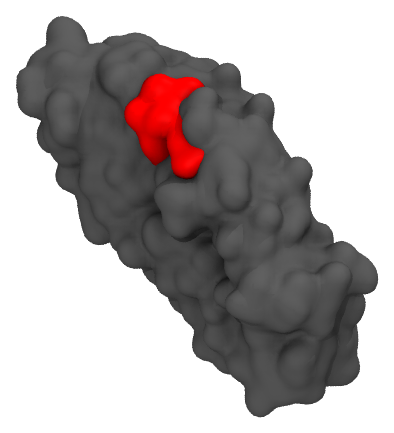
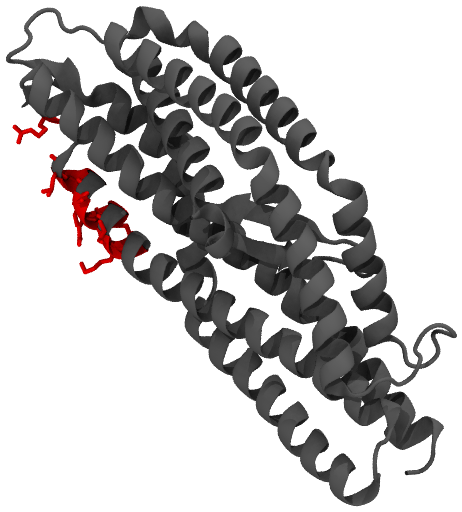
docs(methods): make the growPatch growth figure match candidate 9
The three growth-step panels (seed -> neighbours -> ~16-residue footprint) highlighted
a patch at a different location than the finished-candidate ribbon figure, so the two
read as different selections. Re-render them with the same ribbon pipeline and camera,
growing INTO candidate 9's actual growth footprint (resis_rank from growpatch_8pww.js:
seed 392 nearest the centroid, greedy nearest-neighbour growth; prefixes 1/8/16). The
footprint then gap-fills to A:312-323;A:387-412 -- the exact candidate shown below it.

- render_webtool_figs.sh: GROW1/2/3 added, committed so the panels are reproducible
  (they previously had no render script)
- methods.html: alt text + caption updated (ribbon, not surface); note the footprint is
  candidate 9's; cache versions bumped (grow_g* v3, growpatch_candidate v3)

Claude-Session: https://claude.ai/code/session_01UnbU2XAnf3AQvdSJq3XEXq

diff --git a/docs/methods.html b/docs/methods.html
@@ -152,19 +152,20 @@ figure.dgm figcaption{font-size:11.5px;color:#6a7686;margin:7px auto 0;max-width
     </ul>
     <figure class="dgm">
     <div class="frow">
-      <figure><img src="img/fig/grow_g1.png?v=2" loading="lazy" alt="One exposed starting residue in red on the grey molecular surface of 8PWW chain A."><figcaption>1 &middot; pick an exposed seed residue</figcaption></figure>
+      <figure><img src="img/fig/grow_g1.png?v=3" loading="lazy" alt="One exposed starting residue in red on the grey ribbon of 8PWW chain A."><figcaption>1 &middot; pick an exposed seed residue</figcaption></figure>
       <span class="farrow" aria-hidden="true">&rarr;</span>
-      <figure><img src="img/fig/grow_g2.png?v=2" loading="lazy" alt="The seed plus its nearest surface neighbours, a larger red patch on the same surface view."><figcaption>2 &middot; add nearest surface neighbours</figcaption></figure>
+      <figure><img src="img/fig/grow_g2.png?v=3" loading="lazy" alt="The seed plus its nearest surface neighbours, a larger red patch on the same ribbon view."><figcaption>2 &middot; add nearest surface neighbours</figcaption></figure>
       <span class="farrow" aria-hidden="true">&rarr;</span>
-      <figure><img src="img/fig/grow_g3.png?v=2" loading="lazy" alt="A footprint-sized red patch of about sixteen residues on the same surface view."><figcaption>3 &middot; footprint patch (~16 residues)</figcaption></figure>
+      <figure><img src="img/fig/grow_g3.png?v=3" loading="lazy" alt="A footprint-sized red patch of about sixteen residues on the same ribbon view."><figcaption>3 &middot; footprint patch (~16 residues)</figcaption></figure>
     </div>
-    <figcaption>Rendered from 8PWW chain A (molecular surface), using the actual growth procedure:
-    growth starts at one exposed surface residue (red) and accretes its nearest surface neighbours until
-    the patch reaches footprint size, about 16 residues. The same surface and view are held across the
-    three stages; the run repeats from many seeds.</figcaption>
+    <figcaption>Rendered from 8PWW chain A (grey ribbon), using the actual growth procedure: growth
+    starts at one exposed surface residue (red) and accretes its nearest surface neighbours until the
+    patch reaches footprint size, about 16 residues. This is candidate&nbsp;9&rsquo;s growth footprint,
+    shown in the same view as the finished candidate below; it then gap-fills to the full segments. The
+    run repeats from many seeds.</figcaption>
     </figure>
     <figure class="dgm">
-      <img src="img/fig/growpatch_candidate.png?v=2" loading="lazy" style="max-width:360px"
+      <img src="img/fig/growpatch_candidate.png?v=3" loading="lazy" style="max-width:360px"
            alt="8PWW chain A as a grey ribbon with the residues of one finished growPatch candidate highlighted in red.">
       <figcaption>A finished growPatch candidate on 8PWW chain A: candidate&nbsp;9, a high-ranking
       candidate (2nd by total DiscoTope for this input). Its gap-filled segments
